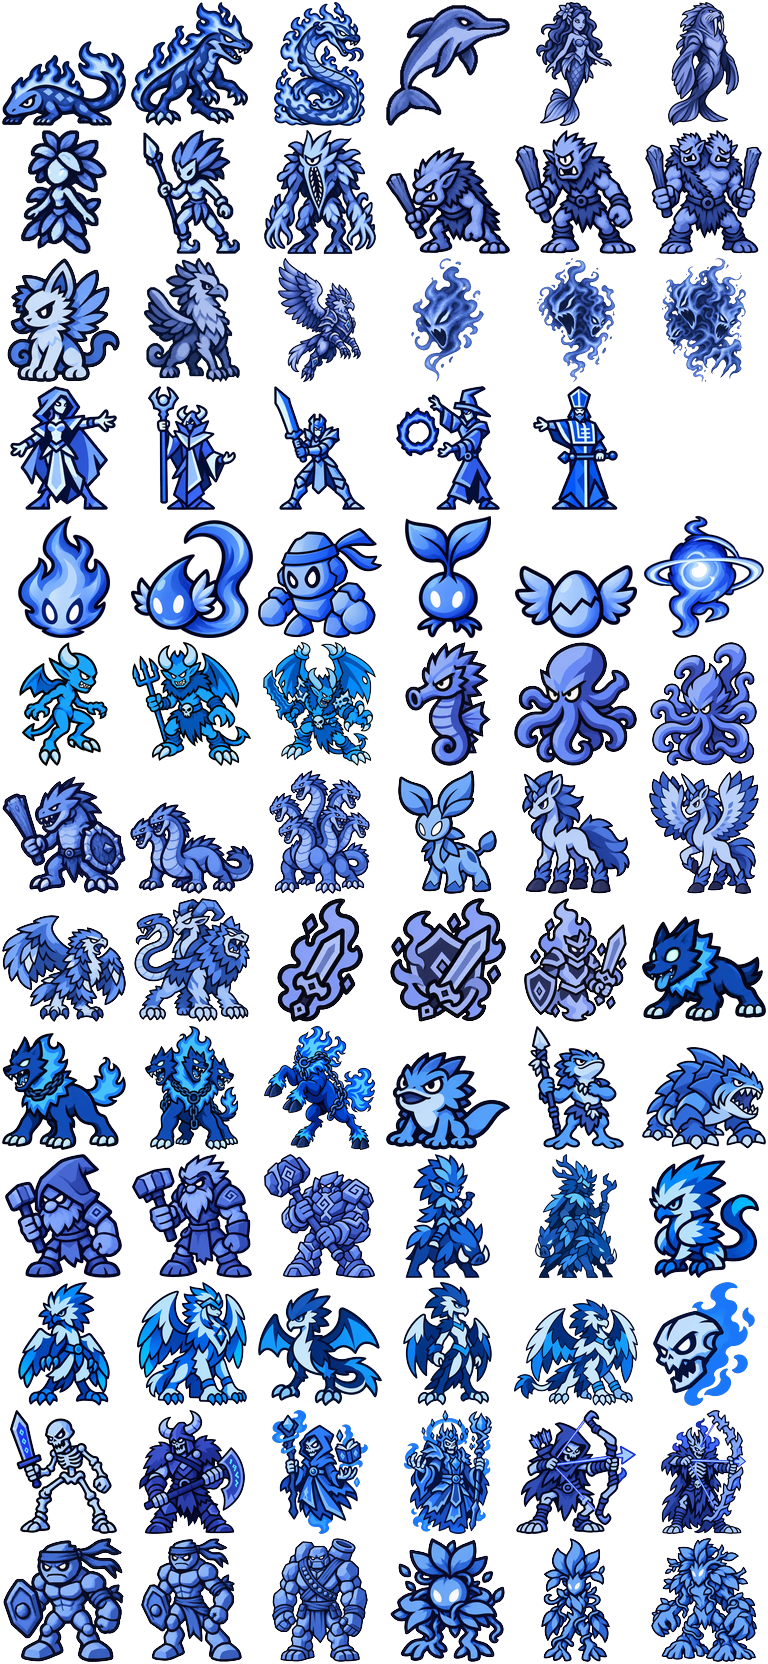
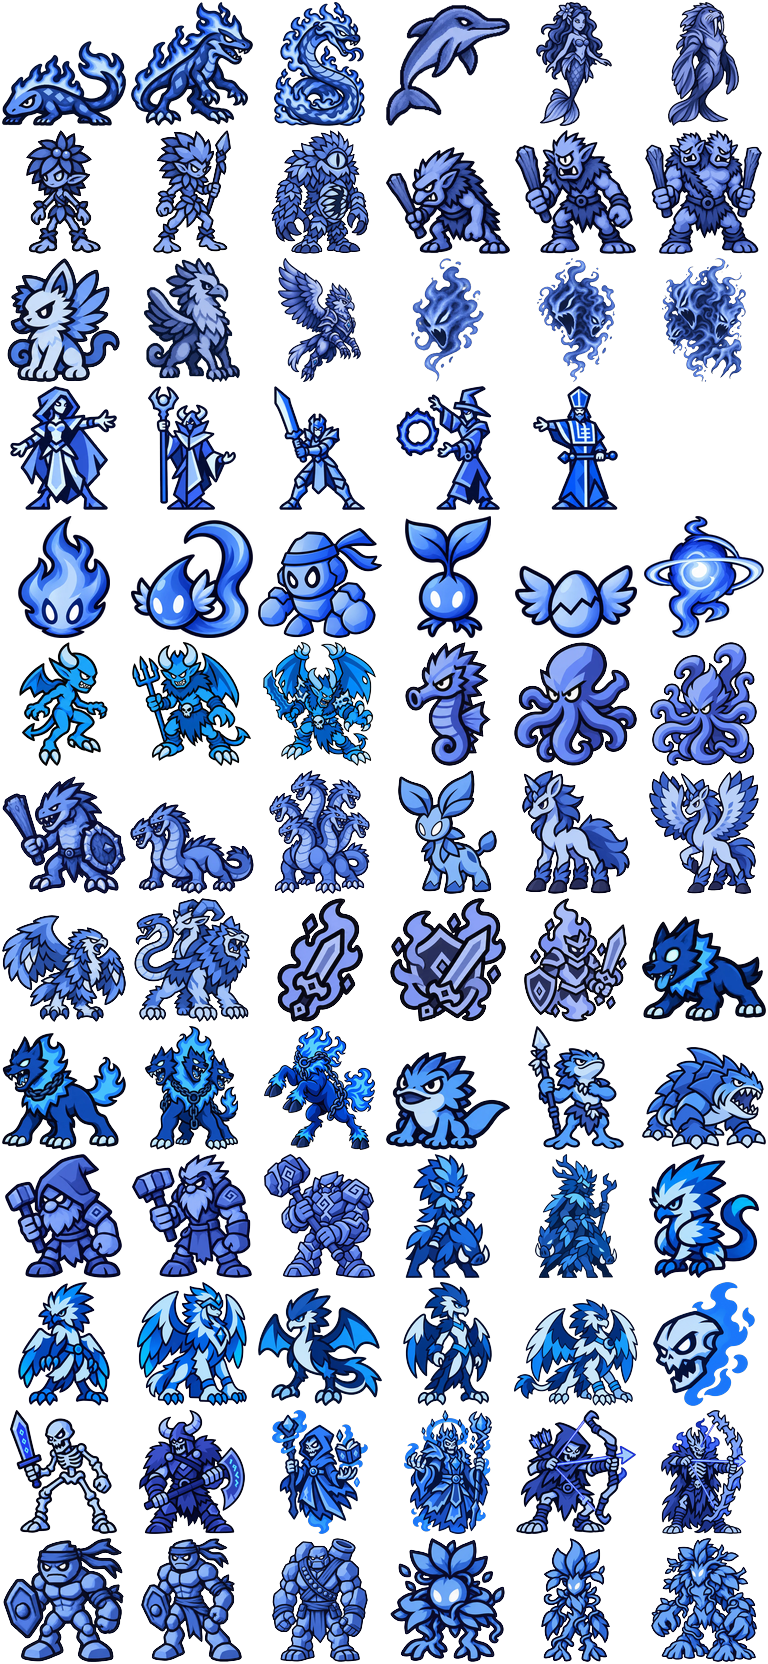
v1.49: novas artes da Dríade, Curupira e Mapinguari

Changed region(s): [[0.3438, 0.0625, 0.5, 0.1562], [0.1875, 0.0625, 0.3125, 0.1562], [0.0312, 0.0625, 0.1562, 0.1562]]

diff --git a/index.html b/index.html
@@ -2078,7 +2078,7 @@ function fundoMenu(cena='inicio'){
 }
 // cada cena tem seu ponto de interesse (torre, pavilhão, monólito): é ele que fica à vista quando a tela corta os lados
 const poeArte=(el,cena)=>{try{el.style.setProperty('--fundoMenu',`url(${fundoMenu(cena)})`);el.style.setProperty('--fundoX',{inicio:'50%',batalha:'46%',carregar:'30%'}[cena]);el.dataset.cena=cena;el.classList.add('arte');}catch(e){}};
-const VERSAO='1.48'; // aumentar 0.01 a cada atualização publicada
+const VERSAO='1.49'; // aumentar 0.01 a cada atualização publicada
 // tela inicial: menu principal com três botões (Jogar, Preparar Batalha, Carregar jogo)
 // inicio = aberta ao abrir o jogo (ou no fim da partida): sem "Voltar ao jogo"
 function abreConfig(inicio=false){
@@ -4723,7 +4723,7 @@ const ORDEM_SPR=['faisca','brasador','pirolorde','gotim','corrente','abissal','b
   'esqGuerreiro','draugr','esqMago','lich','esqArqueiro','flecheiro', // 12ª linha: os esqueletos da Essência
   'barruco','terracoto','golemArgila','mandrago','sentinela','trent']; // 13ª linha: o barro da Argila e as raízes da Semente
 const ATL_LIN=13;
-const ATLAS=/*ATLAS*/"img/atlas.png?v=60b4da36"/*FIM_ATLAS*/;
+const ATLAS=/*ATLAS*/"img/atlas.png?v=41e1bc5a"/*FIM_ATLAS*/;
 const CEL=128;
 // estágio de evolução tem que ser legível só pelo tamanho: 0 mínimo, 1º pequeno, 2º médio, 3º grande (passa da borda do hexágono)
 const TAM_SPR=[21,28,40,56];
@@ -4858,7 +4858,7 @@ atlasCorImg.onload=()=>{
   FILA_ATLAS.push(()=>{atlasCor=contornar(atlasCorImg,4,'#07080c');if(J)atualiza();});
   if(FILA_ATLAS.length===1)rodaFilaAtlas();
 };
-atlasCorImg.src=/*ATLAS_COR*/"img/atlas-cor.png?v=ff73f718";
+atlasCorImg.src=/*ATLAS_COR*/"img/atlas-cor.png?v=e6063225";
 const temCor=esp=>{const i=ORDEM_SPR.indexOf(spr(esp));return i>=0&&i<N_COR;};
 function iconeSpr(esp,t,lado=0){
   const i=ORDEM_SPR.indexOf(spr(esp));
